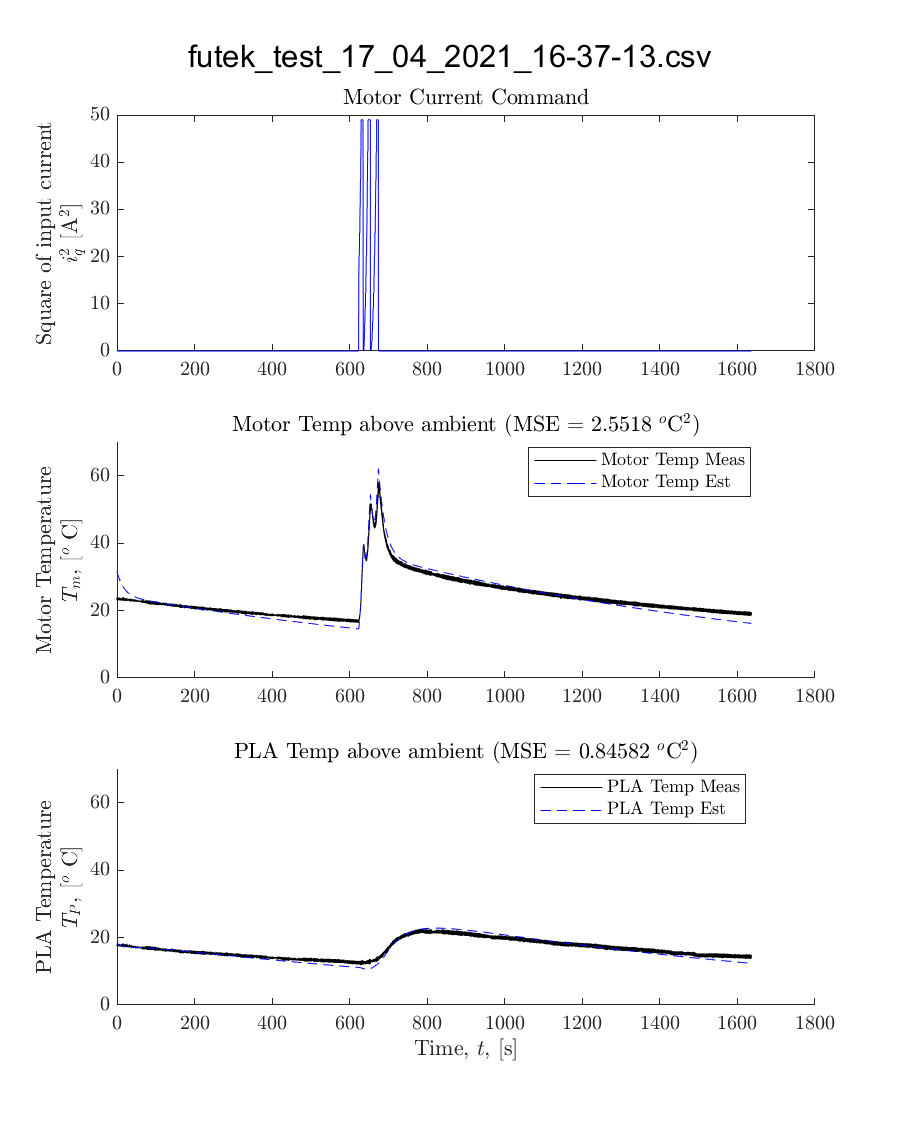
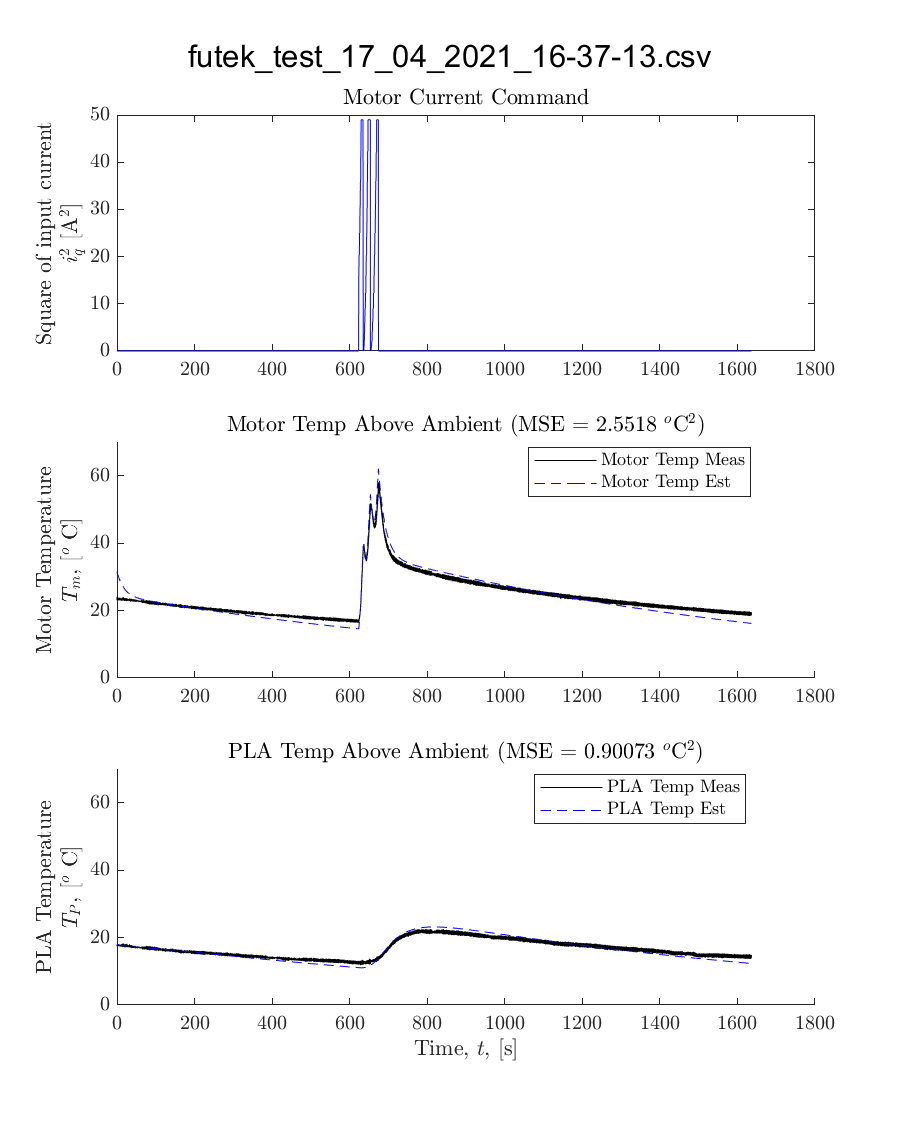
processing torque and current data

diff --git a/futek_data/system_id.m b/futek_data/system_id.m
@@ -1,27 +1,31 @@
 %% motor temp to PLA temp model estimation
-e1 = load_temp_experiment('futek_test_13_04_2021_20-10-36.csv');
+% e1 = load_temp_experiment('futek_test_13_04_2021_20-10-36.csv');
+swap_temps=false;
+[e1, z1] = load_experiments('futek_test_13_04_2021_20-10-36.csv', swap_temps);
 
 NN2 = struc(1:3,1:3,1000);
 % selstruc(arxstruc(e1(:,:,1),e1(:,:,1),NN2))
 
-etf = tfest(e1,2,[],0)
+etf = tfest(e1,2,0,0)
 
-e2 = load_temp_experiment('futek_test_14_04_2021_16-17-17.csv');
-e3 = load_temp_experiment('futek_test_14_04_2021_16-13-41.csv');
+% e2 = load_temp_experiment('futek_test_14_04_2021_16-17-17.csv');
+% e3 = load_temp_experiment('futek_test_14_04_2021_16-13-41.csv');
+[e2, z2] = load_experiments('futek_test_14_04_2021_16-17-17.csv', swap_temps);
+[e3, z3] = load_experiments('futek_test_14_04_2021_16-13-41.csv', swap_temps);
 
-compare(e1, etf)
+compare(e3, etf)
 
 %% current cmd to motor temp estimation
-z1 = load_current_experiment('futek_test_13_04_2021_20-10-36.csv');
+% z1 = load_current_experiment('futek_test_13_04_2021_20-10-36.csv');
 % NN2 = struc(1:3,1:3,10);
 % selstruc(arxstruc(e1(:,:,1),e1(:,:,1),NN2))
 % z1 = z1(1:5000);
 
 tfopt = tfestOptions('InitialCondition','estimate');
-ztf = tfest(z1,2,[],0, tfopt)
+ztf = tfest(z1,2,1,0)
 
-z2 = load_current_experiment('futek_test_14_04_2021_16-17-17.csv');
-z3 = load_current_experiment('futek_test_14_04_2021_16-13-41.csv');
+% z2 = load_current_experiment('futek_test_14_04_2021_16-17-17.csv');
+% z3 = load_current_experiment('futek_test_14_04_2021_16-13-41.csv');
 
 compare(z1, ztf)
 
@@ -145,11 +149,115 @@ ps
 % [e4, z4] = load_experiments('futek_test_17_04_2021_16-37-13.csv', true);
 % [e5, z5] = load_experiments('futek_test_17_04_2021_17-20-44.csv', true);
 
-plot_thermal_model('futek_test_13_04_2021_20-10-36.csv', etf, ztf, false);
+plot_thermal_model('futek_test_17_04_2021_16-37-13.csv', etf, ztf, true);
 
-%% Filtering
+%% KT
 
+data_no_gb_stall_fnames_a1 = ["futek_test_23_04_2021_16-38-38.csv",
+    "futek_test_23_04_2021_17-15-16.csv",
+    "futek_test_23_04_2021_17-18-16.csv",
+    "futek_test_23_04_2021_18-06-56.csv",
+    "futek_test_23_04_2021_18-10-46.csv",
+    "futek_test_23_04_2021_18-37-08.csv",
+    "futek_test_23_04_2021_20-03-31.csv"];
+data_no_gb_damp_fnames_a1 = ["futek_test_23_04_2021_19-52-25.csv",
+    "futek_test_23_04_2021_19-57-18.csv"];
 
+data_no_gb_stall_fnames_a2 = ["futek_test_23_04_2021_18-52-31.csv",
+    "futek_test_23_04_2021_19-08-29.csv",
+    "futek_test_23_04_2021_19-29-38.csv",
+    "futek_test_23_04_2021_19-30-41.csv",
+    "futek_test_23_04_2021_19-36-34.csv"];
+data_no_gb_damp_fnames_a2 = ["futek_test_23_04_2021_19-16-12.csv",
+    "futek_test_23_04_2021_19-20-04.csv",
+    "futek_test_23_04_2021_19-22-22.csv"];
+
+datafiles = ["futek_test_23_04_2021_16-38-38.csv"];
+datafiles = data_no_gb_stall_fnames_a1;
+
+time_oall = [];
+a1_q_cmd_oall = [];
+a1_q_meas_oall = [];
+trd_oall = [];
+
+figure;
+hold on
+for kk = 1:4
+    label = '';
+    if kk==1; datafiles = data_no_gb_stall_fnames_a1; label = 'a1 Stall load '; end
+    if kk==2; datafiles = data_no_gb_damp_fnames_a1; label = 'a1 Damped load '; end
+    if kk==3; datafiles = data_no_gb_stall_fnames_a2; label = 'a2 Stall load '; end
+    if kk==4; datafiles = data_no_gb_damp_fnames_a2; label = 'a2 Damped load '; end
+    for ii = 1:length(datafiles)
+
+        datafile = datafiles(ii);
+        data_table = readtable(datafile,'PreserveVariableNames',true);
+        headers = data_table.Properties.VariableNames;
+
+        time_idx = find(ismember(headers,'time [s]'));
+        a1_q_cmd_idx = find(ismember(headers,'a1 q-axis cmd [A]'));
+        a1_q_meas_idx = find(ismember(headers,'a1 q-axis [A]'));
+        trd_idx = find(ismember(headers,'trd605 torque [Nm]'));
+
+        a1_v_idx = find(ismember(headers,'a1 velocity [rad/s]'));
+
+        time = table2array(data_table(1:end, time_idx));
+        a1_q_cmd = table2array(data_table(1:end, a1_q_cmd_idx));
+        a1_q_meas = table2array(data_table(1:end, a1_q_meas_idx));
+        trd = table2array(data_table(1:end, trd_idx));
+
+        a1_v = table2array(data_table(1:end, a1_v_idx));
+        if mean(abs(a1_v)) > 1.0
+            fprintf("non-zero velocity: %f\n", mean(abs(a1_v)));
+            fprintf(datafile);
+            fprintf("\n");
+        end
+
+        fs = 1/mean(-time(1:end-1) + time(2:end));
+        fpass = 0.1*fs;
+
+        idx_mask = abs(a1_q_cmd) > 0.01;
+        for jj = -10:10
+            idx_mask = idx_mask & (abs(circshift(a1_q_cmd, jj)) > 0.01);
+        end
+
+        time_oall = [time_oall; time];
+        a1_q_cmd_oall = [a1_q_cmd_oall; a1_q_cmd];
+        a1_q_meas_oall = [a1_q_meas_oall; a1_q_meas];
+        trd_oall = [trd_oall; trd];
+        scatter(a1_q_meas(idx_mask), trd(idx_mask),'.','DisplayName',char(['\verb|',char(datafile),'|']));
+
+    end
+    idx_mask = abs(a1_q_cmd_oall) > 0.01;
+    for jj = -10:10
+        idx_mask = idx_mask & (abs(circshift(a1_q_cmd_oall, jj)) > 0.01);
+    end
+
+    x = a1_q_meas_oall(idx_mask);
+    y = trd_oall(idx_mask);
+
+    [x,sortIdx] = sort(x,'ascend');
+    y = y(sortIdx);
+
+    [p1, s1] = polyfit(x, y, 1);
+    [p2, s2] = polyfit(x, y, 2);
+    
+    p1
+    p2
+
+    trd_est1 = polyval(p1, x);
+    trd_est2 = polyval(p2, x);
+
+    % scatter(a1_q_cmd(idx_mask_oall), trd_oall(idx_mask),'b.');
+
+    plot(x, trd_est1,'--','DisplayName',sprintf("%s $K_T$ Linear Fit: $\\tau = %.3f i_q + %.3f$", label, p1(1),p1(2)));
+    plot(x, trd_est2,'--','DisplayName',sprintf("%s $K_T$ Quadratic Fit: $\\tau = %.3f i_q^2 + %.3f i_q + %.3f$", label, p2(1),p2(2), p2(3)));
+    ylabel('Torque [Nm]');
+    xlabel('q-axis Current ($i_q$) [A]');
+    legend('location','best');    
+end
+title('Torque $\tau$ vs. q-axis Current $i_q$ for Stalled and Damped Load')
+hold off;
 
 function plot_thermal_model(dataset, etf, ztf, swap_temps)
     set(0, 'DefaultTextInterpreter', 'latex');
